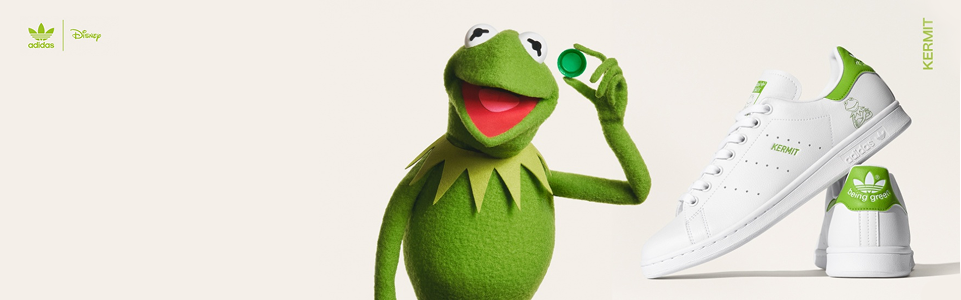
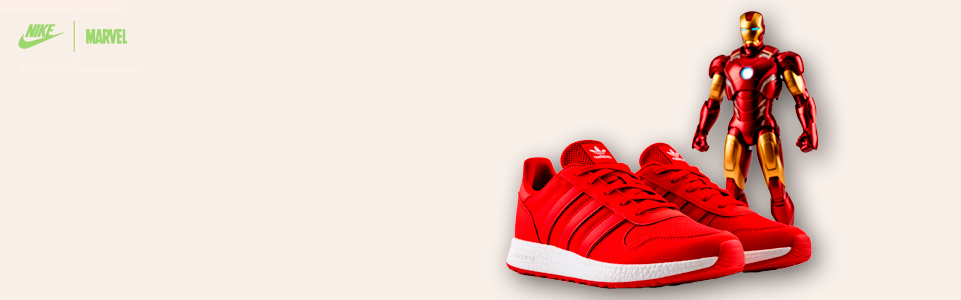
sleder swiper

diff --git a/src/components/Slider/Slider.jsx b/src/components/Slider/Slider.jsx
@@ -13,44 +13,58 @@ export const Slider = () => {
       spaceBetween={30}
       slidesPerView={1}
       loop={true}
-      autoplay={false}
-      //autoplay={{ delay: 3000 }}
+      autoplay={{ delay: 3000 }}
+      //autoplay={false}
       pagination={{ clickable: true }}
       navigation={true}
     >
       <SwiperSlide>
-        <div
-          className="slide"
-          style={{ backgroundImage: 'url(/img/slider/slide1.png)' }}
-        >
-          <div className="slide__content">
-            <h3 className="slide__content-title">
-              <span className="slide__content-title-green">Stan Smith,</span>{' '}
-              Forever!
-            </h3>
-            <button className="slide__content-button">Купить</button>
+        <div className="slide__wrapper">
+          <div
+            className="slide"
+            style={{ backgroundImage: 'url(/img/slider/slide1.png)' }}
+          >
+            <div className="slide__content">
+              <h3 className="slide__content-title">
+                <span className="slide__content-title-green">
+                  Adidas Kermit
+                </span>{' '}
+                — яркий стиль в движении
+              </h3>
+              <button className="slide__content-button">Купить</button>
+            </div>
           </div>
         </div>
       </SwiperSlide>
       <SwiperSlide>
-        <div
-          className="slide"
-          style={{ backgroundImage: 'url(/img/slider/slide1.png)' }}
-        >
-          <div className="slide__content">
-            <h3 className="slide__content-title">Stan Smith, Forever!</h3>
-            <button className="slide__content-button">Купить</button>
+        <div className="slide__wrapper">
+          <div
+            className="slide"
+            style={{ backgroundImage: 'url(/img/slider/slide2.png)' }}
+          >
+            <div className="slide__content">
+              <h3 className="slide__content-title">
+                <span className="slide__content-title-green">Adidas</span> —
+                комфорт и стиль каждый день
+              </h3>
+              <button className="slide__content-button">Купить</button>
+            </div>
           </div>
         </div>
       </SwiperSlide>
       <SwiperSlide>
-        <div
-          className="slide"
-          style={{ backgroundImage: 'url(/img/slider/slide1.png)' }}
-        >
-          <div className="slide__content">
-            <h3 className="slide__content-title">Stan Smith, Forever!</h3>
-            <button className="slide__content-btn">Купить</button>
+        <div className="slide__wrapper">
+          <div
+            className="slide"
+            style={{ backgroundImage: 'url(/img/slider/slide3.png)' }}
+          >
+            <div className="slide__content">
+              <h3 className="slide__content-title">
+                <span className="slide__content-title-green">Nike</span> —
+                классика спортивной энергии
+              </h3>
+              <button className="slide__content-button">Купить</button>
+            </div>
           </div>
         </div>
       </SwiperSlide>

diff --git a/src/index.scss b/src/index.scss
@@ -59,6 +59,8 @@ body {
   align-items: center;
   padding: 40px;
   border-bottom: 1px solid #eaeaea;
+  user-select: none;
+  outline: none;
 
   &__left {
     display: flex;
@@ -519,27 +521,32 @@ body {
 }
 
 .slide {
-  width: 960px;
-  height: 300px;
+  width: 100%;
+  max-width: 960px;
+  aspect-ratio: 32 / 10;
   background-size: cover;
   background-position: center;
   display: flex;
   align-items: center;
-  padding-left: 30px;
   color: white;
   border-radius: 25px;
-  margin: 45px 60px 40px 60px;
+  margin: 0 auto;
+
+  &__wrapper {
+    margin: 0 60px;
+  }
 
   &__content {
-    max-width: 240px;
+    max-width: 340px;
+    margin-left: 60px;
   }
 
   &__content-title {
     font-style: normal;
     font-weight: 700;
-    font-size: 38px;
+    font-size: 28px;
     line-height: 46px;
-    color: #000000;
+    color: #303030;
     text-shadow: 0px 4px 4px rgba(0, 0, 0, 0.25);
 
     &-green {
@@ -548,23 +555,60 @@ body {
   }
 
   &__content-button {
+    background-color: #a5d364;
+    border: 0;
+    width: 178px;
+    height: 48px;
+    border-radius: 25px;
+    font-weight: 700;
+    font-size: 16px;
+    text-transform: uppercase;
+    color: #ffffff;
   }
 }
 
-/* Стрелки */
-.swiper-button-next,
-.swiper-button-prev {
-  color: #ff6600 !important ; /* меняем цвет стрелок */
-  width: 30px !important ;
-  height: 30px !important ;
+.swiper {
+  margin-top: 45px;
 }
 
-/* Точки */
+.swiper-button-next,
+.swiper-button-prev {
+  color: #c8c8c8 !important ;
+  width: 35px !important ;
+  height: 35px !important ;
+  user-select: none;
+  outline: none;
+  border-radius: 30px;
+  background-color: #fff !important ;
+}
+
+.swiper-button-prev {
+  left: var(--swiper-navigation-sides-offset, 40px) !important ;
+}
+
+.swiper-button-next {
+  right: var(--swiper-navigation-sides-offset, 40px) !important ;
+}
+
+.swiper-button-prev:after,
+.swiper-button-next:after {
+  font-family: swiper-icons;
+  font-size: 10px !important;
+  text-transform: none !important;
+  letter-spacing: 0;
+  font-variant: initial;
+  line-height: 1;
+}
+
 .swiper-pagination-bullet {
-  background: #ccc !important ; /* цвет точек */
+  background: #ccc !important ;
   opacity: 1;
+  user-select: none;
+  outline: none;
 }
 
 .swiper-pagination-bullet-active {
-  background: #ff6600 !important; /* цвет активной точки */
+  background: #a5d364 !important;
+  user-select: none;
+  outline: none;
 }

diff --git a/src/App.js b/src/App.js
@@ -162,22 +162,23 @@ function App() {
 
         <Header onClickCart={() => setCartOpened(true)} />
 
-        <Slider />
-
         <Routes>
           <Route
             path="/"
             element={
-              <Home
-                items={items}
-                cartItems={cartItems}
-                searchValue={searchValue}
-                setSearchValue={setSearchValue}
-                onChangeSearch={onChangeSearch}
-                onAddToCart={onAddToCart}
-                isLoading={isLoading}
-                onAddToFavorite={onAddToFavorite}
-              />
+              <>
+                <Slider />
+                <Home
+                  items={items}
+                  cartItems={cartItems}
+                  searchValue={searchValue}
+                  setSearchValue={setSearchValue}
+                  onChangeSearch={onChangeSearch}
+                  onAddToCart={onAddToCart}
+                  isLoading={isLoading}
+                  onAddToFavorite={onAddToFavorite}
+                />
+              </>
             }
             exact
           />
